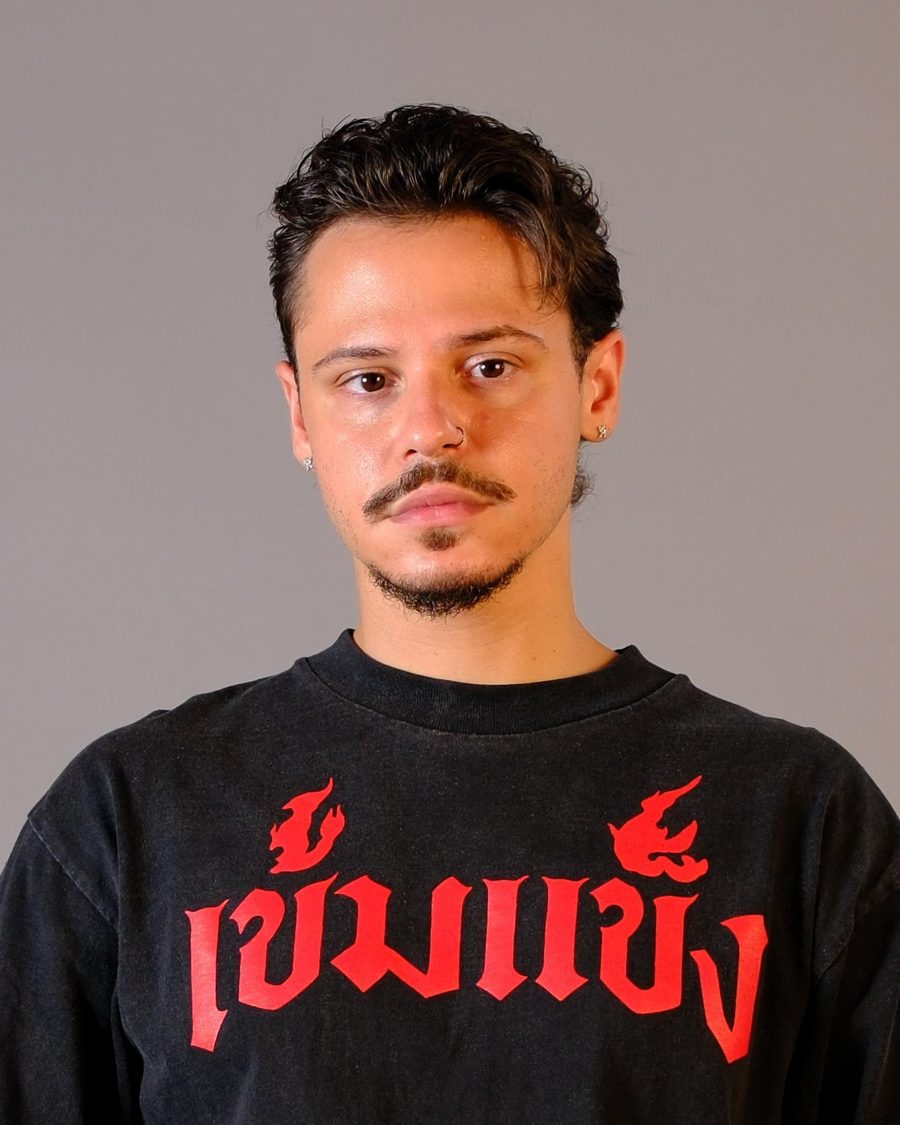
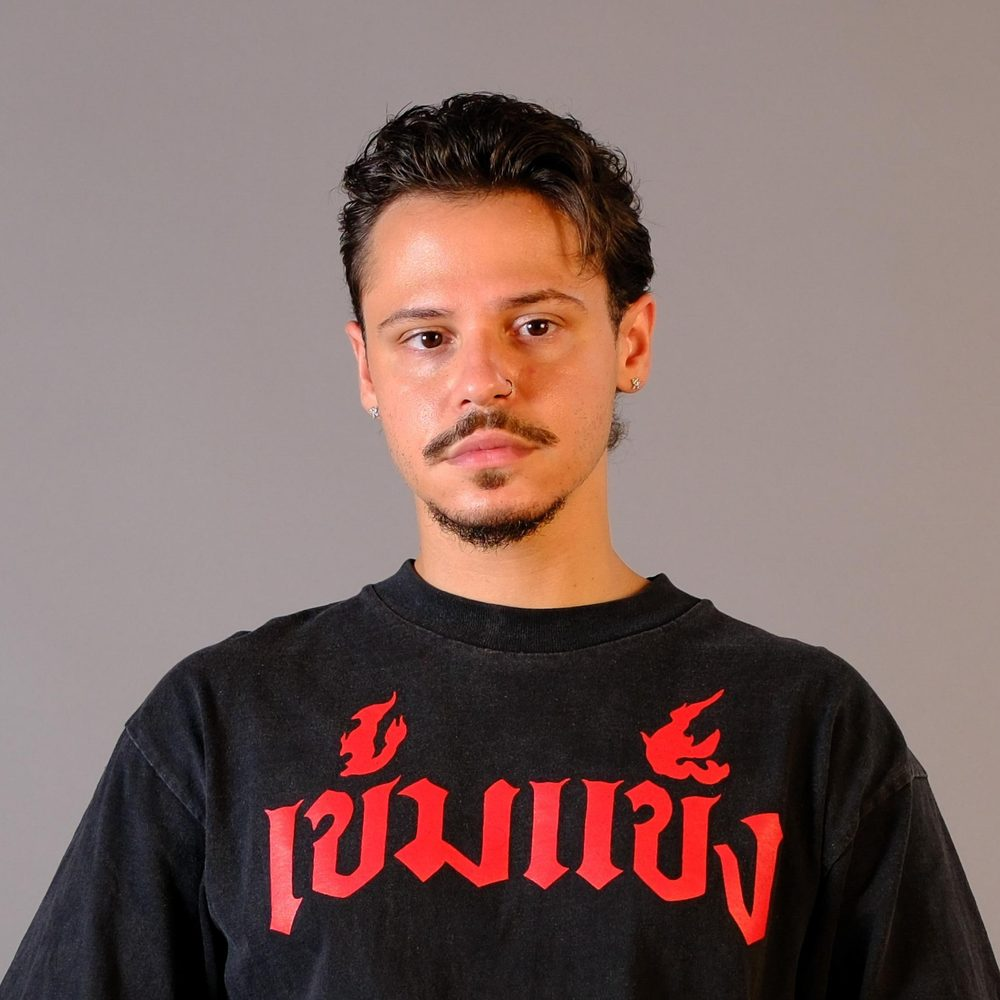
Add files via upload

Changed region(s): [[0.0, 0.093, 1.0, 1.0], [0.6222, 0.961, 0.6533, 1.0], [0.4356, 0.589, 0.4667, 0.62]]

diff --git a/index.html b/index.html
@@ -146,12 +146,6 @@
     -webkit-backdrop-filter: blur(10px);
   }
   .btn-glass:hover { background: rgba(10,10,10,0.08); border-color: rgba(10,10,10,0.35); }
-  .btn-hero {
-    background: rgba(245,237,220,0.06);
-    border: 1px solid rgba(245,237,220,0.4);
-    color: #F5EDDC;
-  }
-  .btn-hero:hover { background: rgba(245,237,220,0.14); border-color: rgba(245,237,220,0.75); }
   .btn-glass-accent {
     padding: 18px 44px;
     background: #0a0a0a;
@@ -247,7 +241,7 @@
   }
   .team-grid > *, .grid-2 > * { min-width: 0; }
   .team-card { background: #F0EEE9; }
-  .team-photo { width: 100%; aspect-ratio: 4 / 5; object-fit: cover; display: block; }
+  .team-photo { width: 100%; aspect-ratio: 1 / 1; object-fit: cover; display: block; }
   .team-card-body { padding: 32px 32px 40px; }
   .team-card h4 { font-size: 17px; font-weight: 700; margin-bottom: 4px; }
   .team-card .role { font-size: 11px; letter-spacing: 0.12em; text-transform: uppercase; color: #B2260E; margin-bottom: 16px; }
@@ -333,7 +327,6 @@ window.__squireLoaded = null;
   <a href="#" class="nav-link" onclick="document.querySelector('.mobile-menu').classList.remove('open')">Home</a>
   <a href="#services" class="nav-link" onclick="document.querySelector('.mobile-menu').classList.remove('open')">Services</a>
   <a href="#about" class="nav-link" onclick="document.querySelector('.mobile-menu').classList.remove('open')">Team</a>
-  <button class="book_button btn-glass-accent" style="margin-top:16px; align-self:flex-start;" data-shop-route="dimension-barbershop-montreal" onclick="document.querySelector('.mobile-menu').classList.remove('open')">Book Now</button>
 </div>
 
 <section class="hero" style="padding-top:0; max-width:none; margin:0;">
@@ -349,7 +342,6 @@ window.__squireLoaded = null;
       Every cut, a statement. Every visit, an experience.<br />
       Where craft meets culture.
     </p>
-    <button class="book_button btn-glass btn-hero" data-shop-route="dimension-barbershop-montreal">Book an Appointment</button>
   </div>
 </section>
 
@@ -357,21 +349,21 @@ window.__squireLoaded = null;
   <div class="section-label"><span class="line-accent"></span><span>The Team</span></div>
   <div class="team-grid">
     <div class="team-card">
-      <img class="team-photo" width="900" height="1125" loading="lazy" decoding="async" src="assets/nader.jpg" alt="Nader, barber at Dimension Montreal" />
+      <img class="team-photo" width="1000" height="1000" loading="lazy" decoding="async" src="assets/nader.jpg" alt="Nader, barber at Dimension Montreal" />
       <div class="team-card-body">
         <h4>Nader</h4>
         <p class="bio">Nader loves a good conversation just as much as a clean line. He pays close attention to every detail, from the first consultation to the final trim, so you leave looking exactly how you pictured it.</p>
       </div>
     </div>
     <div class="team-card">
-      <img class="team-photo" width="900" height="1125" loading="lazy" decoding="async" src="assets/tony.jpg" alt="Tony, barber at Dimension Montreal" />
+      <img class="team-photo" width="1000" height="1000" loading="lazy" decoding="async" src="assets/tony.jpg" alt="Tony, barber at Dimension Montreal" />
       <div class="team-card-body">
         <h4>Tony</h4>
         <p class="bio">Tony keeps things light and easygoing while staying precise with every cut. He listens closely during consultations and always delivers exactly what you asked for.</p>
       </div>
     </div>
     <div class="team-card">
-      <img class="team-photo" width="900" height="1125" loading="lazy" decoding="async" src="assets/ralph.jpg" alt="Ralph, barber at Dimension Montreal" />
+      <img class="team-photo" width="1000" height="1000" loading="lazy" decoding="async" src="assets/ralph.jpg" alt="Ralph, barber at Dimension Montreal" />
       <div class="team-card-body">
         <h4>Ralph</h4>
         <p class="bio">Ralph has a sharp eye for detail and an easy way with conversation. He takes his time with every cut and makes sure nothing gets overlooked.</p>
@@ -464,7 +456,7 @@ window.__squireLoaded = null;
   </span>
   <div style="display:flex; align-items:center; gap:28px; flex-wrap:wrap;">
     <a href="https://www.instagram.com/dimension.mtl/" target="_blank" rel="noopener noreferrer" class="nav-link">Instagram</a>
-    <button class="book_button nav-link" style="cursor:pointer;" data-shop-route="dimension-barbershop-montreal">Book</button>
+    <span class="nav-link">Tue&ndash;Sat &middot; By appointment</span>
     <p style="font-size:11px; color:rgba(10,10,10,0.28); letter-spacing:0.06em;">&copy; 2026 Dimension · Montreal</p>
   </div>
 </footer>
